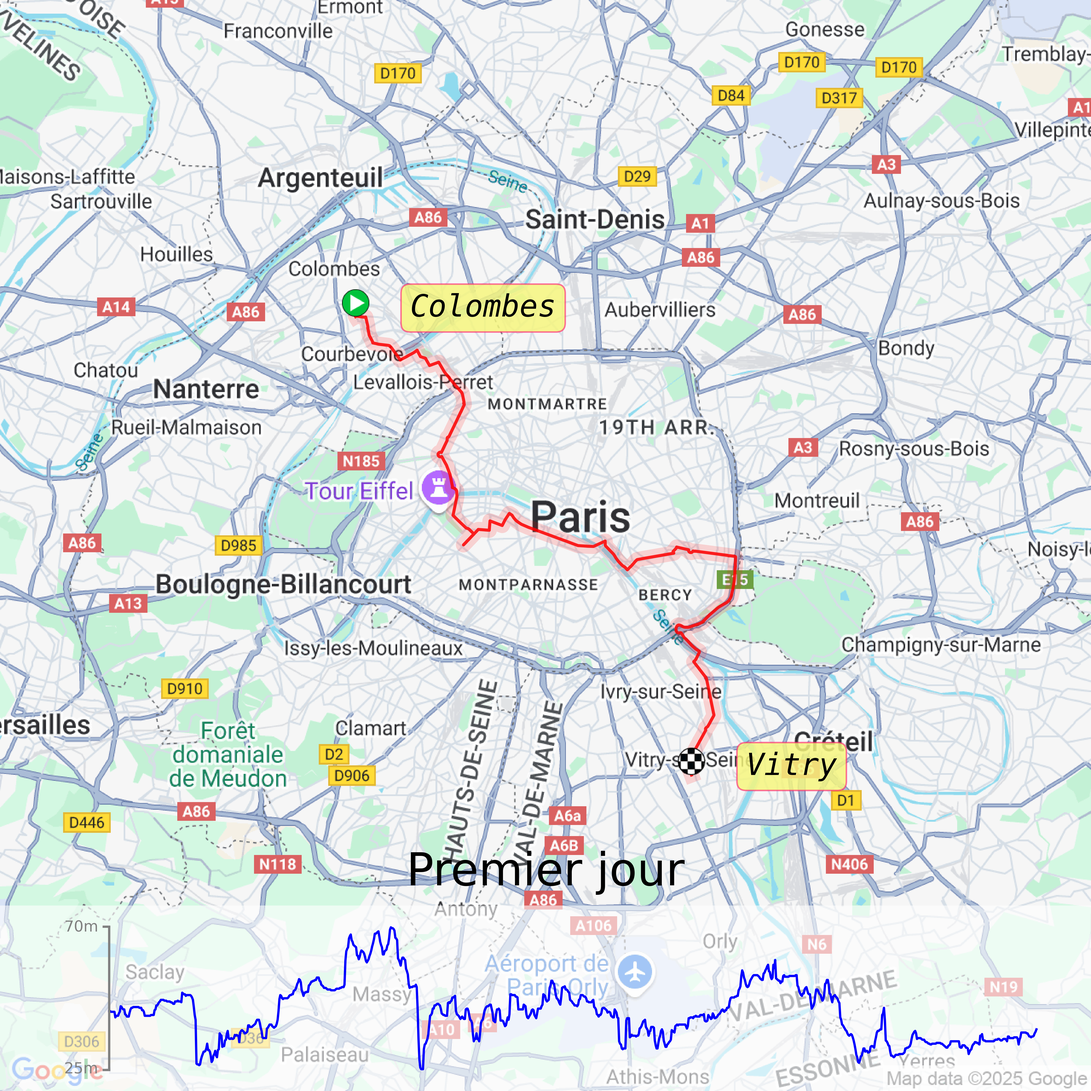
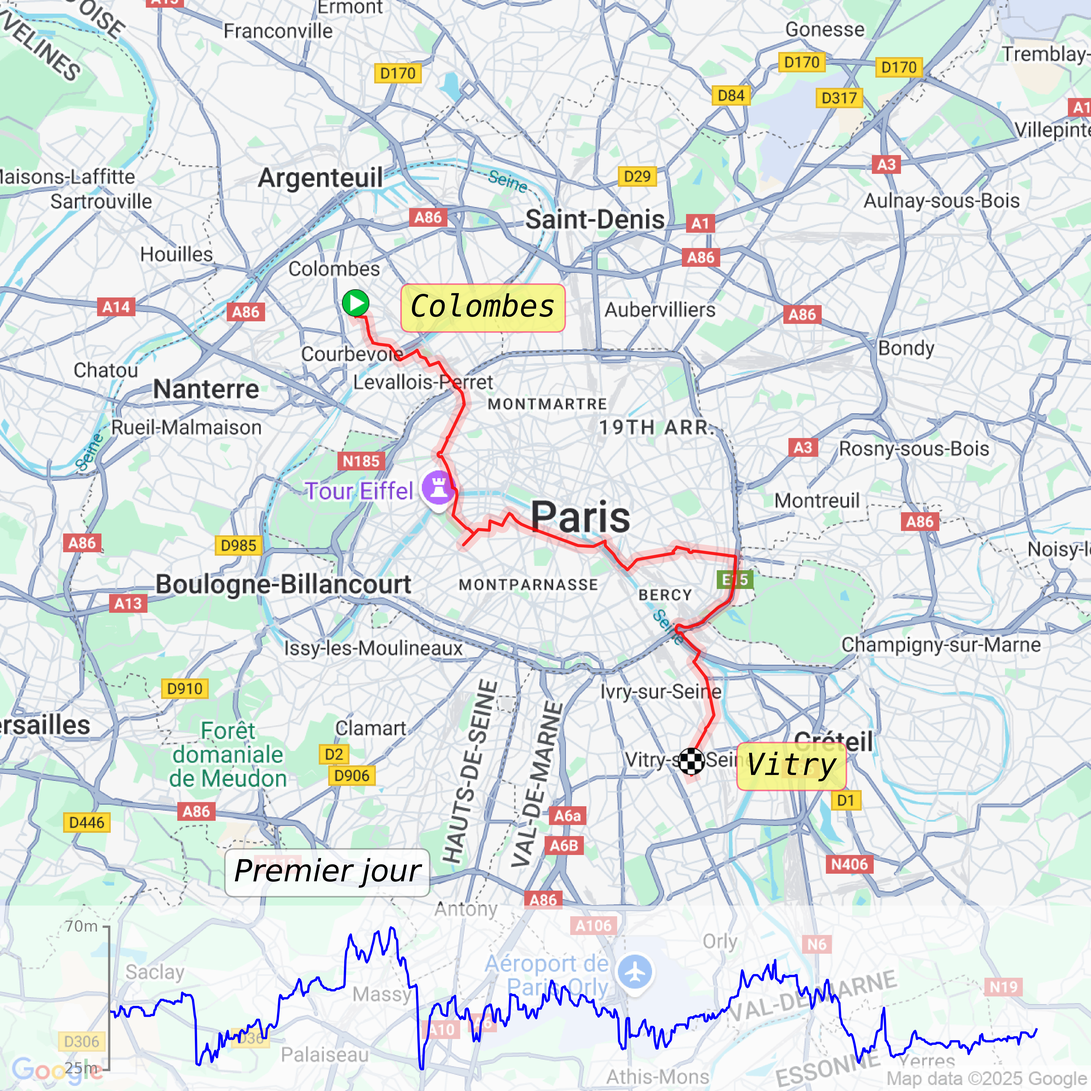
feat: add kwargs title

Changed region(s): [[0.187, 0.7792, 0.6233, 0.8415]]

diff --git a/examples/example1.py b/examples/example1.py
@@ -108,7 +108,18 @@ t.addElevationGraph(height_pct=0.17, backgroundColor="white", backgroundColorAlp
 t.plotPoints(format_string="-r", linewidth=10, alpha=0.15)
 t.plotPoints(format_string="-r", linewidth=2, alpha=0.85)
 # 4.5 Add title
-t.addTitle("Premier jour", center_x=0.5, center_y=0.2, fontsize=30)
+t.addTitle(
+    "Premier jour",
+    center_x=0.3,
+    center_y=0.2,
+    fontsize=20,
+    fontstyle="italic",
+    bbox=dict(
+        boxstyle="round",
+        edgecolor=(0.0, 0.0, 0.0, 0.3),
+        facecolor=(1.0, 1.0, 1.0, 0.8),
+    ),
+)
 # 4.6 Save map to file
 t.save("out/day_one.png")
 t.save("../images/premier_jour.png")

diff --git a/traceplot/src/traceplot/Trace.py b/traceplot/src/traceplot/Trace.py
@@ -220,7 +220,7 @@ class Trace:
         )
 
     def addTitle(
-        self, title: str, center_x: float, center_y: float, fontsize: int
+        self, title: str, center_x: float, center_y: float, fontsize: int, **kwargs
     ) -> None:
         self.ax.text(
             center_x,
@@ -230,6 +230,7 @@ class Trace:
             horizontalalignment="center",
             transform=self.ax.transAxes,
             fontsize=fontsize,
+            **kwargs,
         )
 
     def plotPoints(self, format_string, **kwargs) -> None:

diff --git a/traceplot/README.md b/traceplot/README.md
@@ -54,7 +54,7 @@ t.addMarker(
 )
 t.addElevationGraph(height_pct=0.17, backgroundColor="white", backgroundColorAlpha=0.6)
 t.plotPoints(format_string="-r", linewidth=6, alpha=.25)
-t.addTitle("Around Paris", center_x=0.5, center_y=0.2, fontsize=30)
+t.addTitle("Around Paris", center_x=0.5, center_y=0.2, fontsize=30, fontstyle="italic")
 t.save("out/day_one.png")
 t.show()
 t.close()
